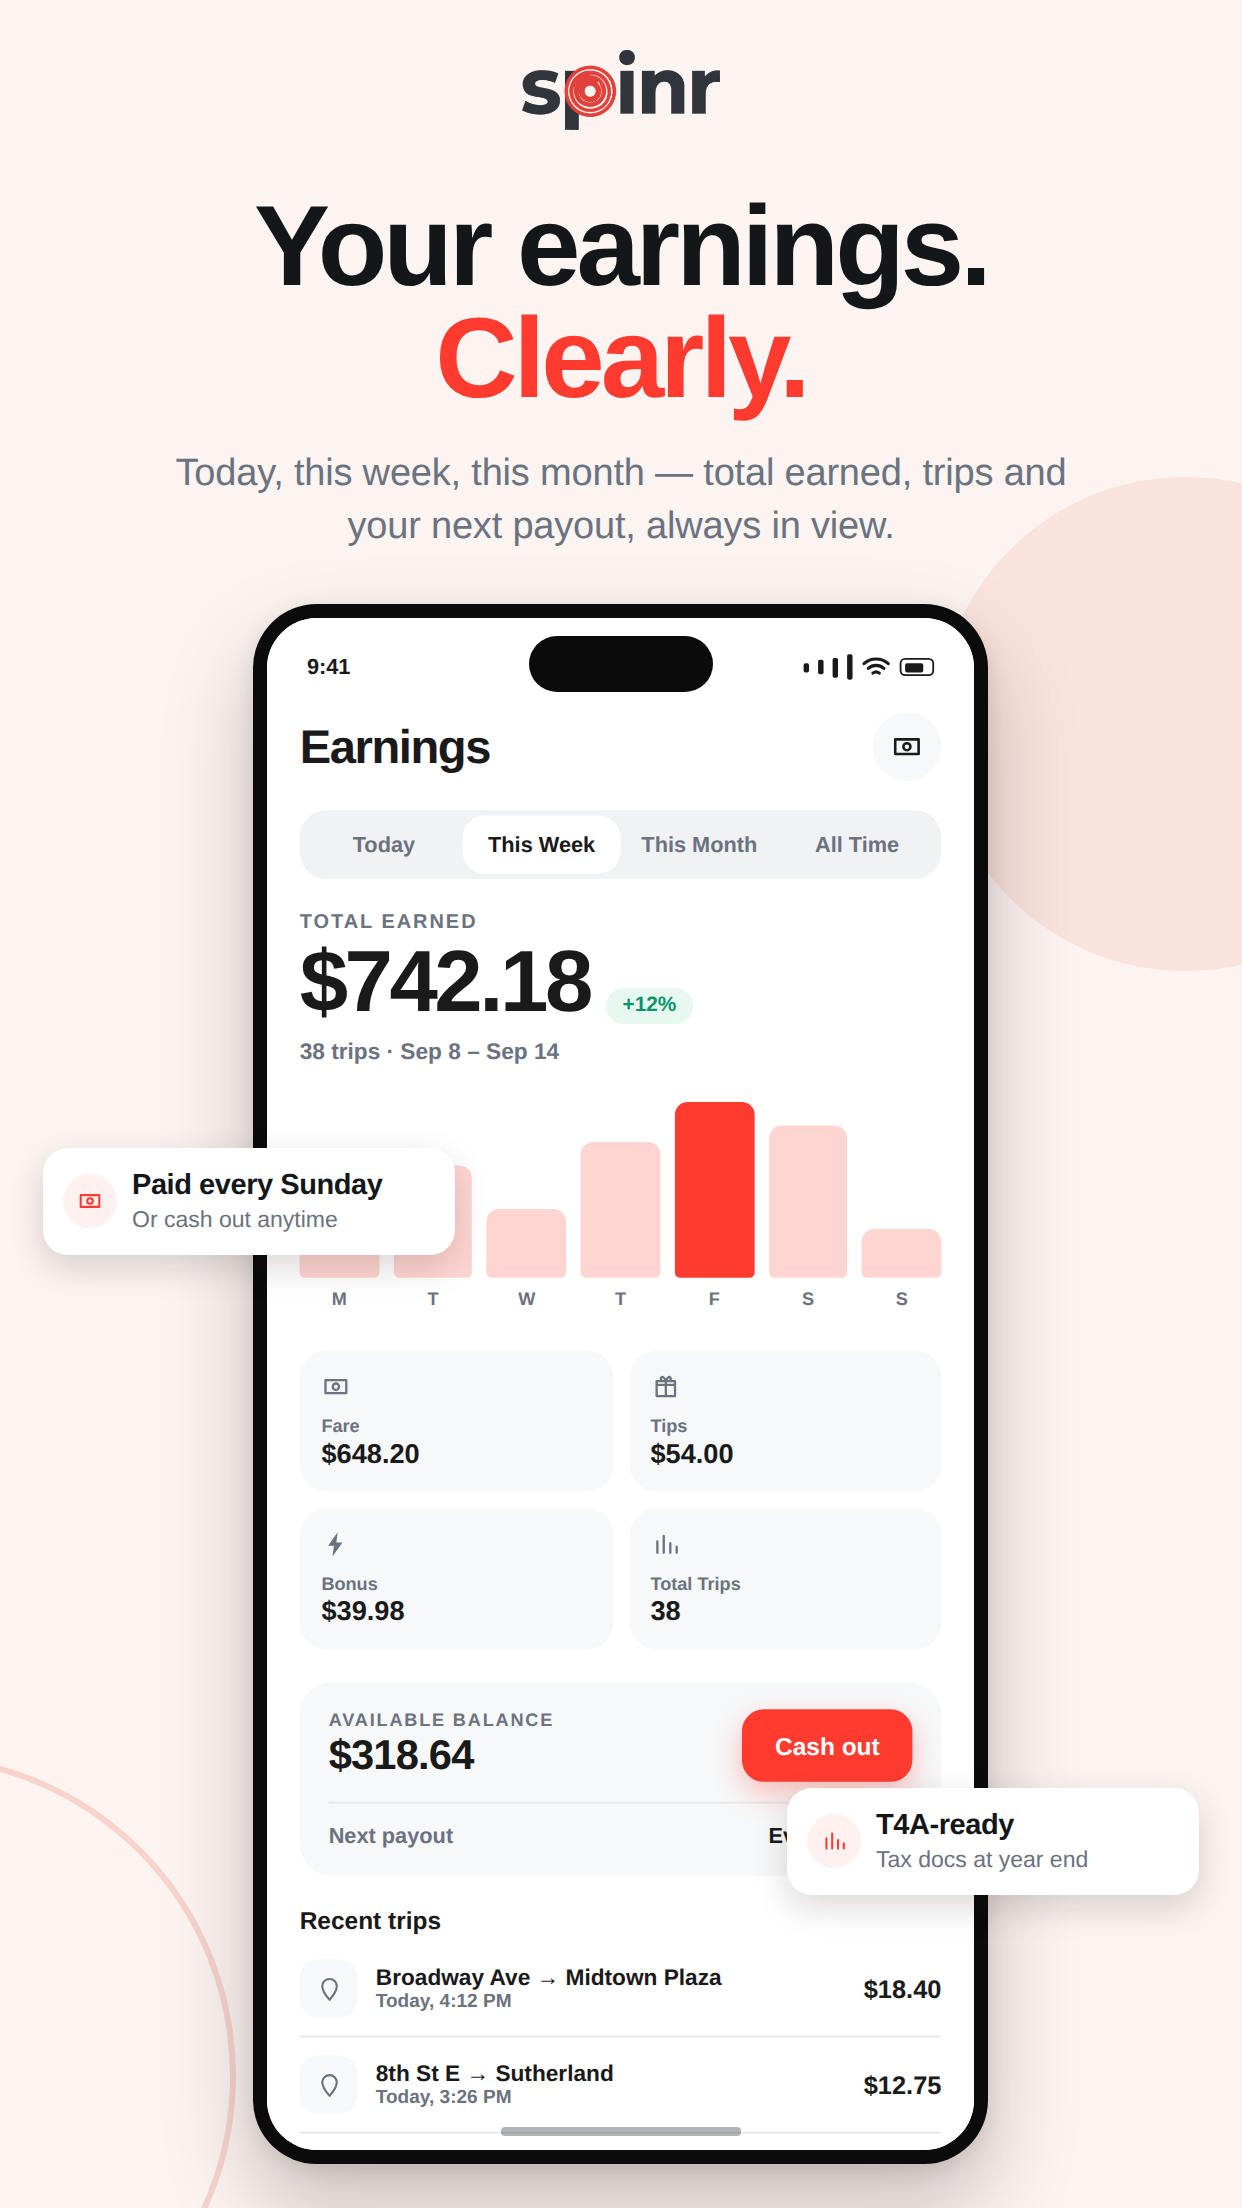
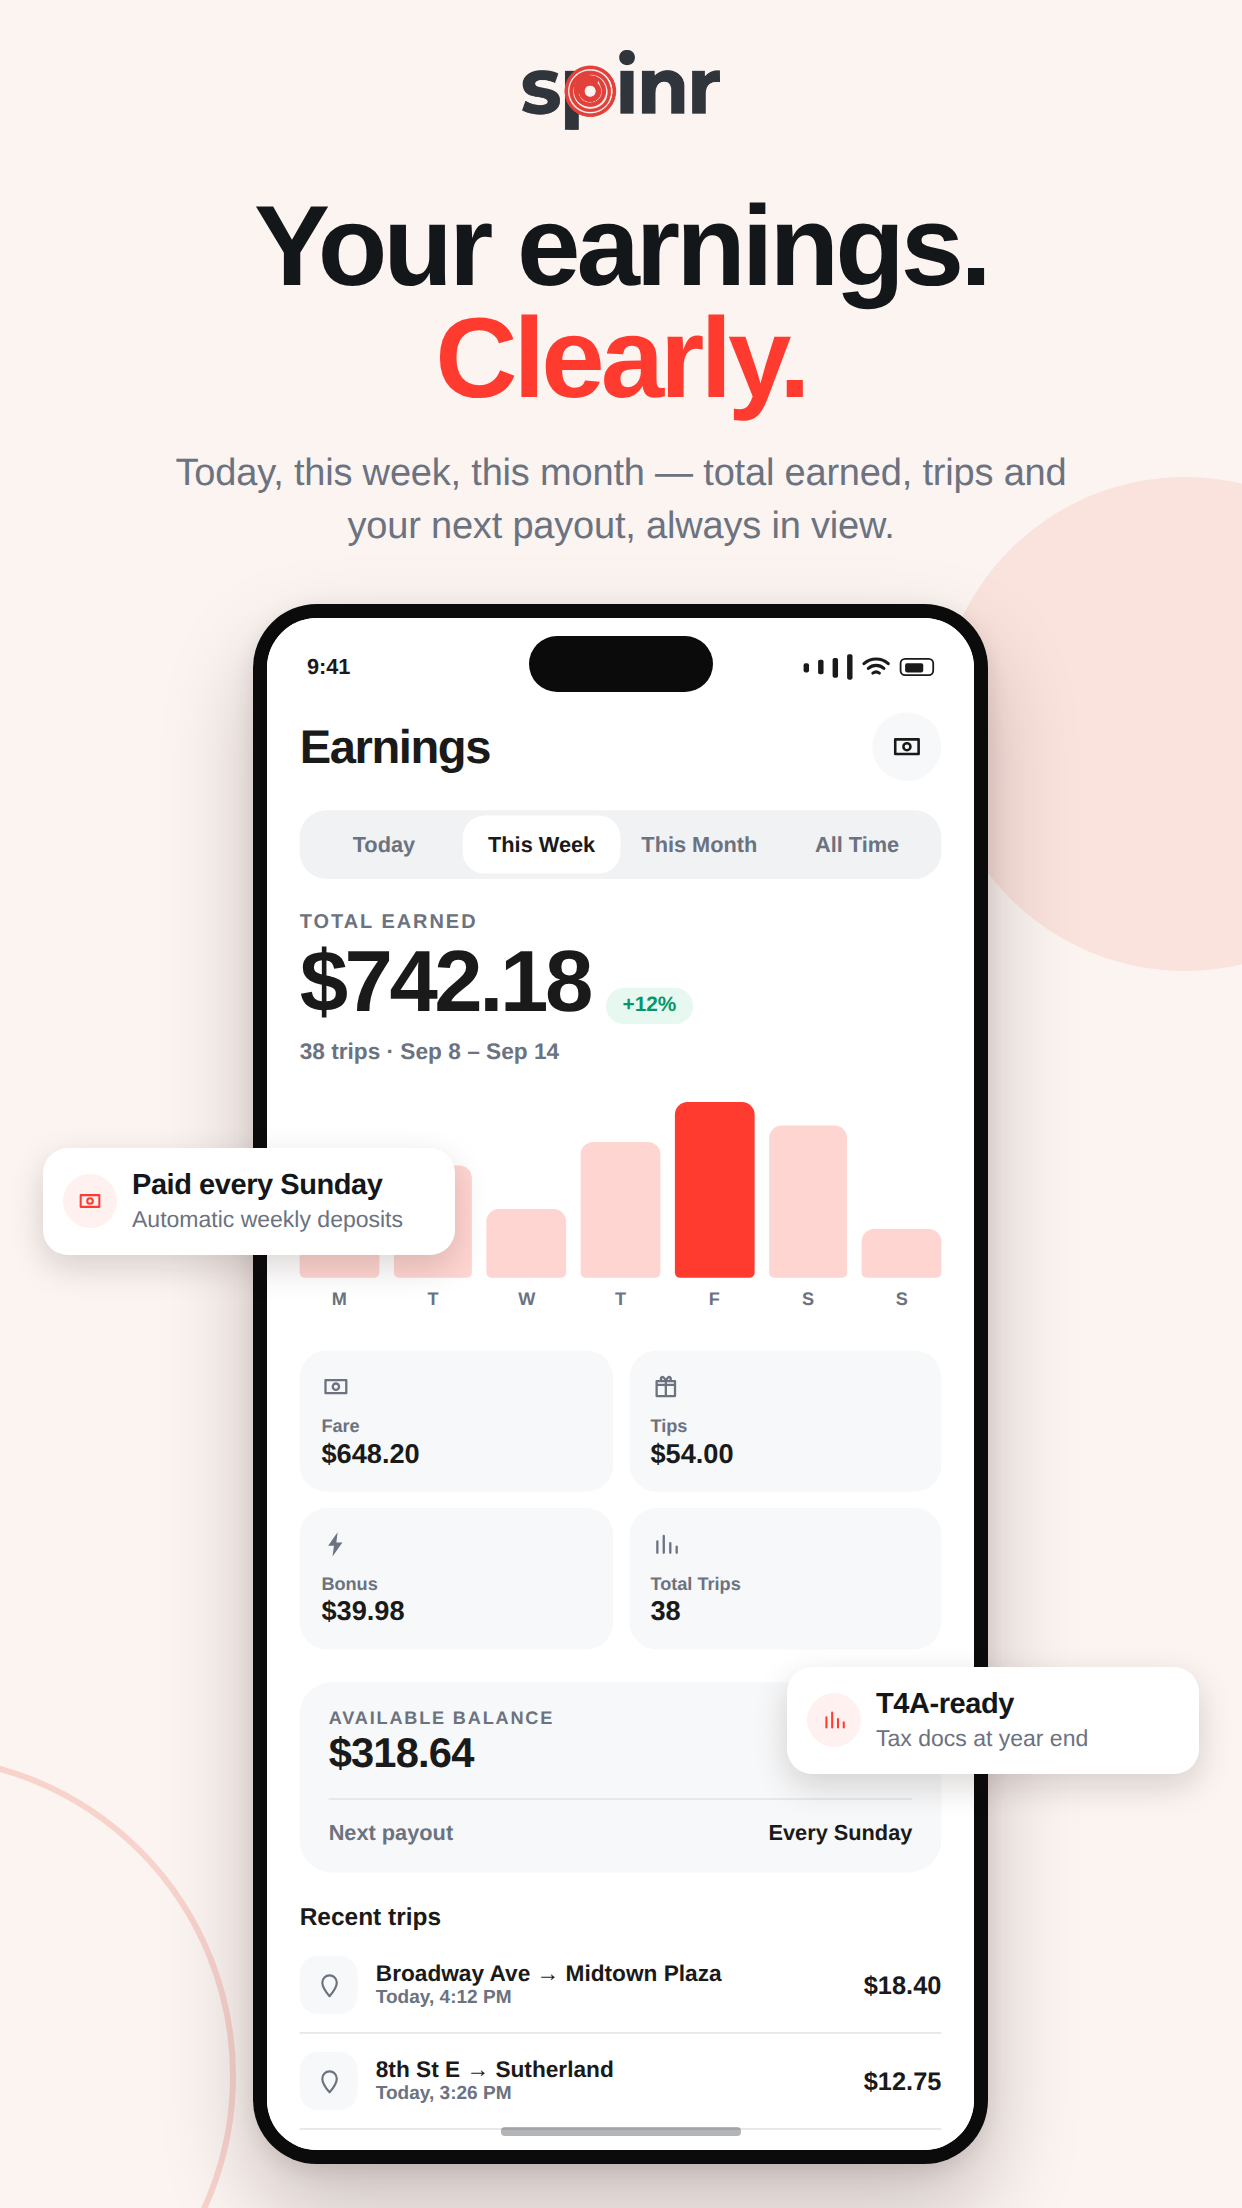
chore(driver-app): regenerate store screenshots for weekly-only payouts
PR #5810 removed the mock "Cash out" button and the "Or cash out anytime"
caption from the screenshot generator but did not re-render the PNGs, so
the committed 01-drive-canadian and 06-earnings sets still showed an
instant cash-out button. Re-rendered all 48 artboards; only those two
screens changed (12 PNGs), the other 36 are byte-identical.

The 06 "T4A-ready" callout moves from 0.81 to 0.755 of canvas height:
at 0.81 it sat over the "Next payout — Every Sunday" row, hiding the
weekly schedule. It now covers the empty right half of the balance card
where the Cash out button used to be.

Co-developed with Claude Code (claude-sonnet-5)

Claude-Session: https://claude.ai/code/session_01PPGd1wK6WRzbtxcGj3qNkX

diff --git a/driver-app/store-assets/generate_screenshots.py b/driver-app/store-assets/generate_screenshots.py
@@ -1004,7 +1004,7 @@ def build_cards(b, logo):
             "always in view.",
             scr_earnings(), logo, [
                 ("left", 0.52, ic("cash"), "Paid every Sunday", "Automatic weekly deposits"),
-                ("right", 0.81, ic("chart"), "T4A-ready", "Tax docs at year end"),
+                ("right", 0.755, ic("chart"), "T4A-ready", "Tax docs at year end"),
             ]), CREAM),
         ("07-rider-pin", light_card(
             b, "The right rider,<br>every <em>time</em>",
